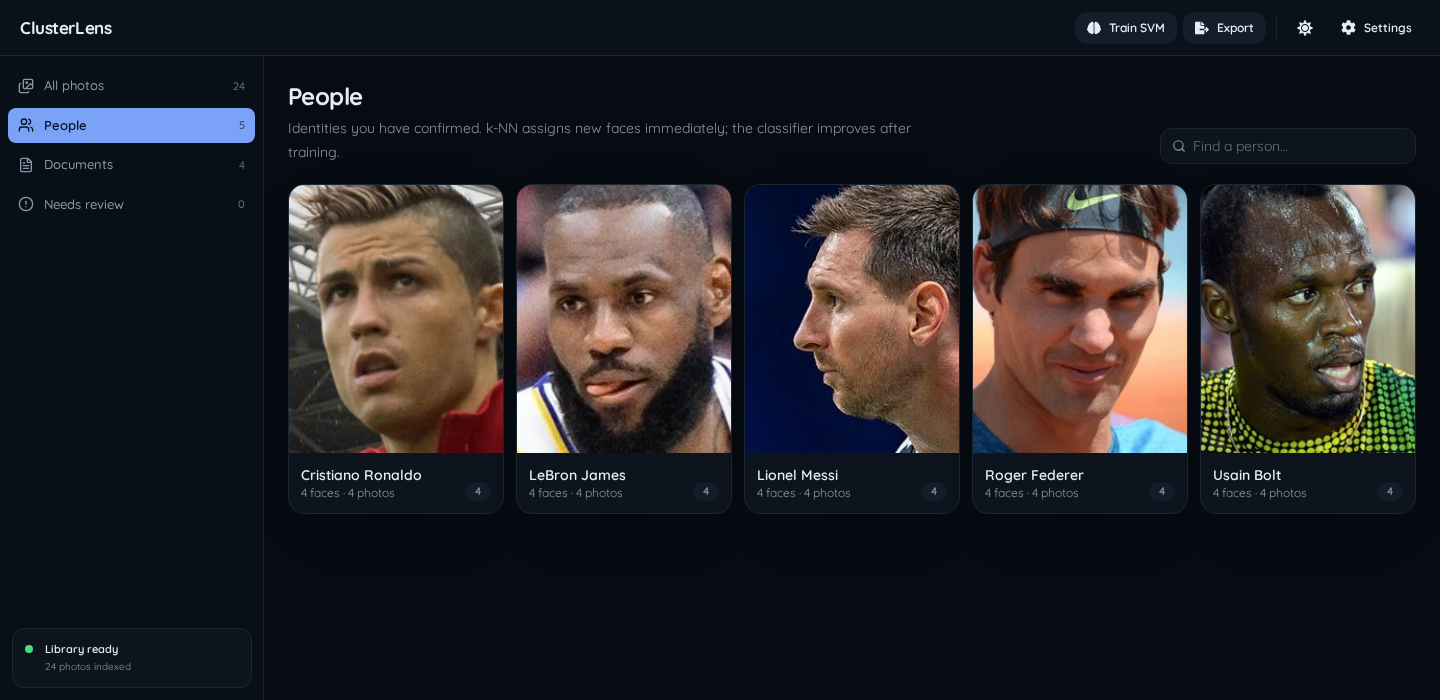
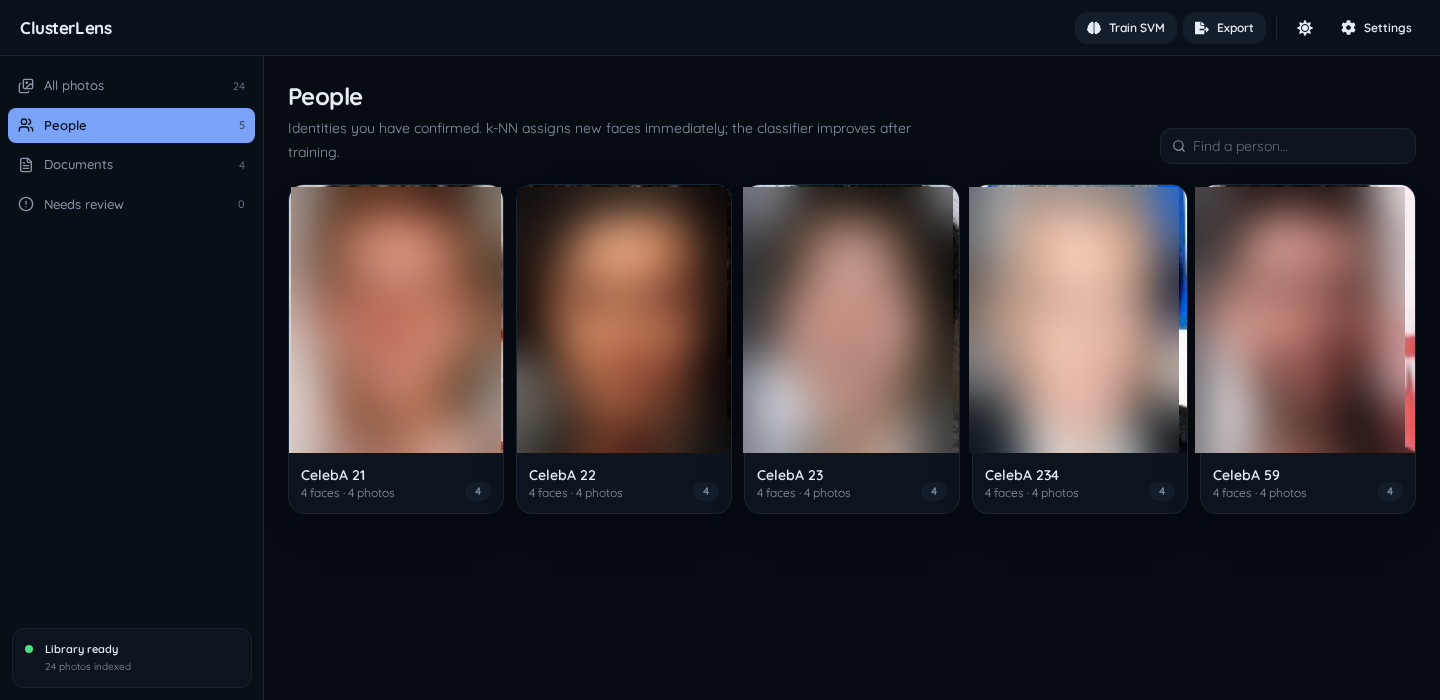
[DOCS] switch preview to CelebA

Changed region(s): [[0.1875, 0.24, 1.0, 0.69]]

diff --git a/docs/sample-data.md b/docs/sample-data.md
@@ -1,27 +1,9 @@
 # Preview data
 
-The screenshots in the README use a 24-photo toy library, not a personal archive. The athlete portraits and the whiteboard photo are CC-licensed Wikimedia Commons files, downloaded locally for the preview only. The repository does not redistribute the original image files. The receipt, form, and code screenshot are synthetic images generated for the demo.
+The screenshots use a 24-photo toy library: four photos for each of five CelebA identities (21, 22, 23, 234, and 59), plus four document images.
 
-| Subject | Commons file | Author | License |
-| --- | --- | --- | --- |
-| Cristiano Ronaldo | [Cristiano Ronaldo, 2012 2.JPG](https://commons.wikimedia.org/wiki/File%3ACristiano_Ronaldo%2C_2012_2.JPG) | goatling | CC BY-SA 2.0 |
-| Cristiano Ronaldo | [Cristiano Ronaldo - Croatia vs. Portugal, 10th June 2013 cropped.jpg](https://commons.wikimedia.org/wiki/File%3ACristiano_Ronaldo_-_Croatia_vs._Portugal%2C_10th_June_2013_cropped.jpg) | Fanny Schertzer | CC BY-SA 3.0 |
-| Cristiano Ronaldo | [Cristiano Ronaldo 2018.jpg](https://commons.wikimedia.org/wiki/File%3ACristiano_Ronaldo_2018.jpg) | Анна Нэсси | CC BY-SA 3.0 |
-| Cristiano Ronaldo | [Cristiano Ronaldo Croatia v Portugal 2 July 2026-075 (cropped).jpg](https://commons.wikimedia.org/wiki/File%3ACristiano_Ronaldo_Croatia_v_Portugal_2_July_2026-075_%28cropped%29.jpg) | Bryan Berlin | CC BY-SA 4.0 |
-| Lionel Messi | [Lionel Messi 2009.jpg](https://commons.wikimedia.org/wiki/File%3ALionel_Messi_2009.jpg) | Мысякин Александр | CC BY-SA 3.0 |
-| Lionel Messi | [Lionel Messi 20180626.jpg](https://commons.wikimedia.org/wiki/File%3ALionel_Messi_20180626.jpg) | Кирилл Венедиктов | CC BY-SA 3.0 |
-| Lionel Messi | [Lionel Messi 31mar2007.jpg](https://commons.wikimedia.org/wiki/File%3ALionel_Messi_31mar2007.jpg) | Darz Mol | CC BY-SA 2.5 es |
-| Lionel Messi | [Lionel Messi Argentina v Egypt 7 July 2026-245.jpg](https://commons.wikimedia.org/wiki/File%3ALionel_Messi_Argentina_v_Egypt_7_July_2026-245.jpg) | Bryan Berlin | CC BY-SA 4.0 |
-| LeBron James | [LeBron James, 25 November 2023 02 (cropped).jpg](https://commons.wikimedia.org/wiki/File%3ALeBron_James%2C_25_November_2023_02_%28cropped%29.jpg) | Erik Drost | CC BY 2.0 |
-| LeBron James | [LeBron James (21994852812).jpg](https://commons.wikimedia.org/wiki/File%3ALeBron_James_%2821994852812%29.jpg) | Erik Drost | CC BY 2.0 |
-| LeBron James | [LeBron James (51914946203) (cropped).jpg](https://commons.wikimedia.org/wiki/File%3ALeBron_James_%2851914946203%29_%28cropped%29.jpg) | Erik Drost | CC BY 2.0 |
-| LeBron James | [2016-10-07 LeBron James ALDS Game 2 pregame Cleveland 05.jpg](https://commons.wikimedia.org/wiki/File:2016-10-07_LeBron_James_ALDS_Game_2_pregame_Cleveland_05.jpg) | Arturo Pardavila III | CC BY 2.0 |
-| Usain Bolt | [Usain Bolt (9391712915).jpg](https://commons.wikimedia.org/wiki/File%3AUsain_Bolt_%289391712915%29.jpg) | Neil | CC BY 2.0 |
-| Usain Bolt | [Usain Bolt (9391715151).jpg](https://commons.wikimedia.org/wiki/File%3AUsain_Bolt_%289391715151%29.jpg) | Neil | CC BY 2.0 |
-| Usain Bolt | [Usain Bolt (9391722543).jpg](https://commons.wikimedia.org/wiki/File%3AUsain_Bolt_%289391722543%29.jpg) | Neil | CC BY 2.0 |
-| Usain Bolt | [Usain Bolt (9394490576).jpg](https://commons.wikimedia.org/wiki/File%3AUsain_Bolt_%289394490576%29.jpg) | Neil | CC BY 2.0 |
-| Roger Federer | [FEDERER Roger-24x30-1998.jpg](https://commons.wikimedia.org/wiki/File%3AFEDERER_Roger-24x30-1998.jpg) | Studio Harcourt | CC BY 3.0 |
-| Roger Federer | [Federer 2016 (cropped).jpg](https://commons.wikimedia.org/wiki/File%3AFederer_2016_%28cropped%29.jpg) | si.robi | CC BY-SA 2.0 |
-| Roger Federer | [Roger Federer 2012 Doha.jpg](https://commons.wikimedia.org/wiki/File%3ARoger_Federer_2012_Doha.jpg) | Doha Stadium Plus Qatar | CC BY 2.0 |
-| Roger Federer | [Roger Federer 2015 (cropped).jpg](https://commons.wikimedia.org/wiki/File%3ARoger_Federer_2015_%28cropped%29.jpg) | Tatiana from Moscow, Russia | CC BY-SA 2.0 |
-| Whiteboard | [Change management whiteboard.jpg](https://commons.wikimedia.org/wiki/File:Change_management_whiteboard.jpg) | Birkenkrahe | CC BY-SA 3.0 |
+CelebA is available for non-commercial research purposes only. The source images are not committed and are not redistributed. The screenshots blur the faces. CelebA identity labels are numeric; the dataset does not ship names.
+
+The receipt, intake form, and code screenshot are synthetic images generated for the demo. The whiteboard is [Change management whiteboard.jpg](https://commons.wikimedia.org/wiki/File:Change_management_whiteboard.jpg) by Birkenkrahe, licensed [CC BY-SA 3.0](https://creativecommons.org/licenses/by-sa/3.0/).
+
+Dataset: [CelebA](https://mmlab.ie.cuhk.edu.hk/projects/CelebA.html). Preview mirror: [flwrlabs/celeba](https://huggingface.co/datasets/flwrlabs/celeba).

diff --git a/README.md b/README.md
@@ -2,7 +2,7 @@
 
 A local-first smart gallery for a recovered photo archive. It reads the EXIF that survived, reconstructs the people and documents from the pixels, and keeps every source folder read-only.
 
-![ClusterLens gallery grouped by year, with athlete portraits, a receipt, and a whiteboard](docs/screenshots/gallery.png)
+![Documents view with a receipt, a code screenshot, an intake form, and a whiteboard](docs/screenshots/documents.png)
 
 ## What it does
 
@@ -12,7 +12,7 @@ A local-first smart gallery for a recovered photo archive. It reads the EXIF tha
 - Exports full-photo copies into `People/<name>/`, `People/Unsorted/`, `Documents/<type>/`, and `Unknown/`, with a manifest for every copy.
 - Keeps indexing progress, failures, and job history in a bottom-left status dock, so the gallery stays edge-to-edge.
 
-![People page with five athlete cards and face counts](docs/screenshots/people.png)
+![People page with five CelebA identity cards and face counts; the faces are blurred](docs/screenshots/people.png)
 
 ## Run it
 
@@ -51,8 +51,6 @@ Confirmed faces go through k-NN first. If a linear SVM is trained, its probabili
 
 Export is a copy job, never a move. A photo with three confirmed people is copied into three folders. If it has no confirmed person, it falls through to Documents, then Unknown. Every copy is recorded in `.clusterlens/manifest.jsonl`.
 
-![Documents view with a receipt, a code screenshot, a form, and a whiteboard](docs/screenshots/documents.png)
-
 ## Constraints
 
 Sources are read-only by contract. The indexer opens them read-only, duplicate detection groups instead of moving, and export writes only to a destination outside the sources.
@@ -74,7 +72,7 @@ No vector database, cloud queue, or hosted demo. SQLite in WAL mode, two backgro
 
 ## Preview data
 
-The screenshots use a 24-photo toy library with five athletes and four documents, not a personal archive. The source image files are not committed. Source links and licenses for the Commons photos are in [docs/sample-data.md](docs/sample-data.md); the receipt, form, and code screenshot were generated for the demo.
+The screenshots use a 24-photo toy library: four photos for each of five CelebA identities, plus four documents. The source images are not committed. CelebA is used locally under its non-commercial research terms, and the faces are blurred in the screenshots. The receipt, intake form, and code screenshot were generated for the demo; the whiteboard is a CC BY-SA photo. Dataset links, terms, and credits are in [docs/sample-data.md](docs/sample-data.md).
 
 ## Stack
 
